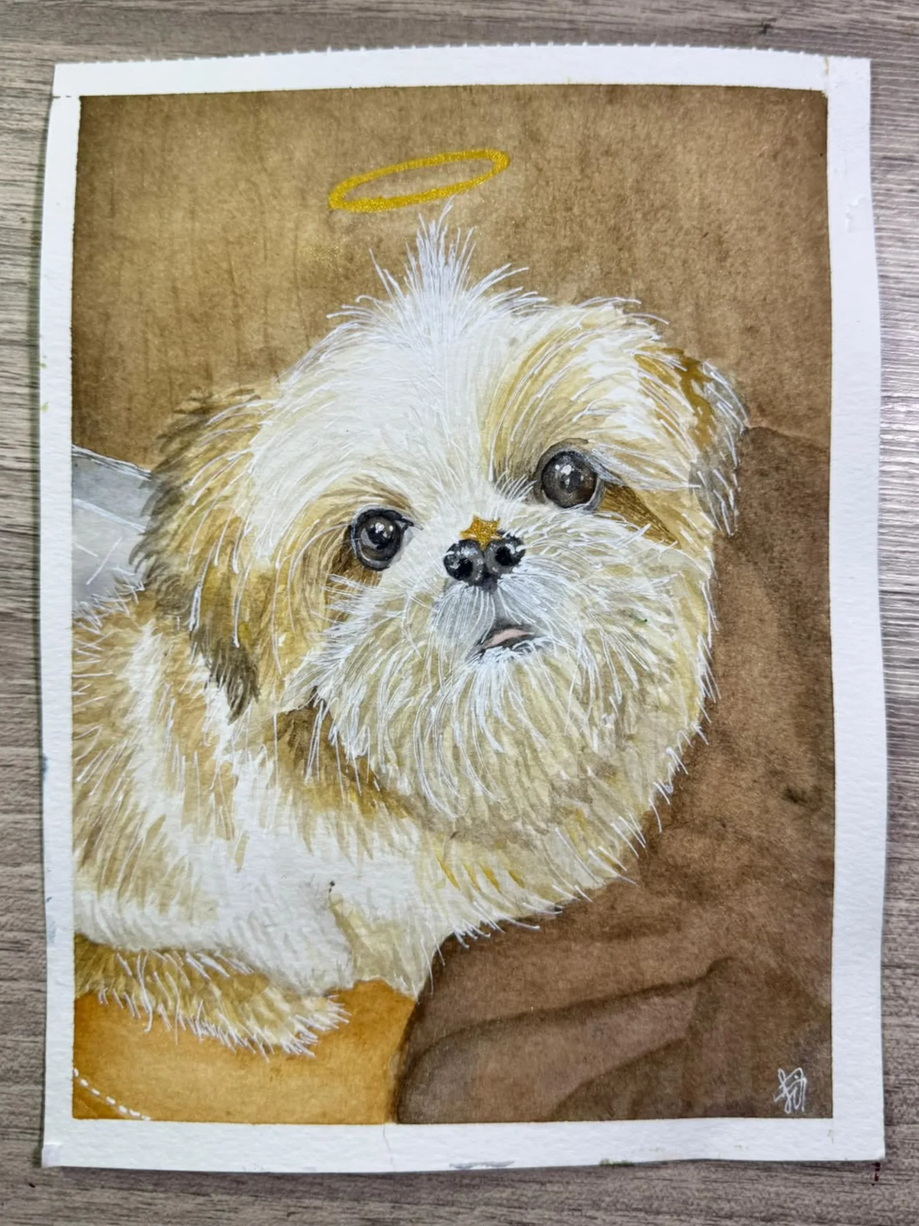
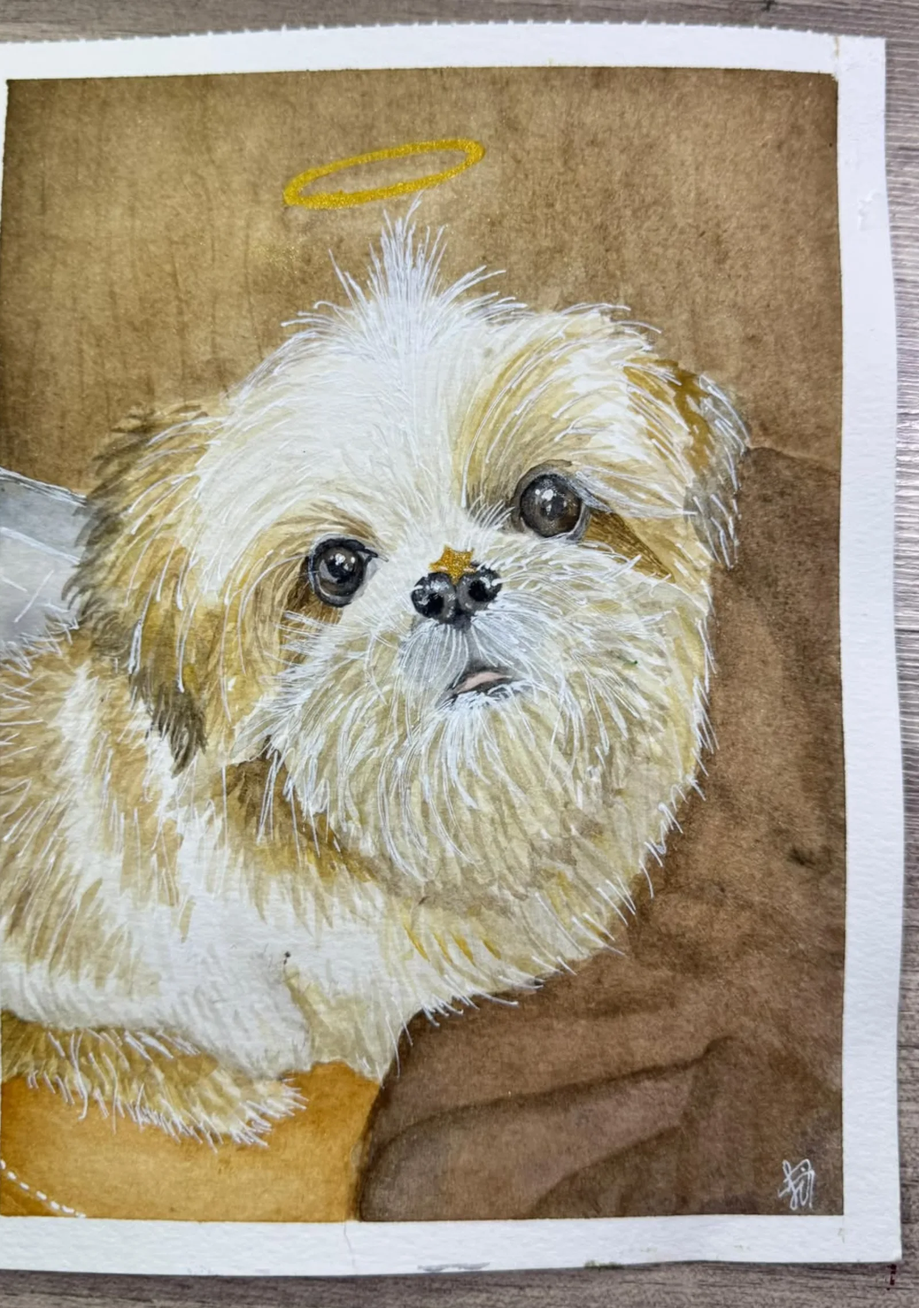
Tighten gallery photo framing and randomize homepage theme tiles
Crop each gallery photo closer to the artwork itself (removing table/palette background) instead of showing the full reference photo. Move the landscape bedroom piece to the end of the gallery as a featured wide tile so it isn't squeezed into a portrait card. Update the homepage's "O que pintamos" theme tiles to match the order form's real themes (add Casal, merge Santos/Devocionais into Santo/Devocional) and randomize which piece shows per theme on every page load.

diff --git a/src/app/page.tsx b/src/app/page.tsx
@@ -1,6 +1,7 @@
 import { LinkButton } from "@/components/Button";
 import ArtworkCard from "@/components/ArtworkCard";
 import Testimonials from "@/components/Testimonials";
+import ThemeShowcase from "@/components/ThemeShowcase";
 
 const STEPS = [
   {
@@ -21,10 +22,32 @@ const STEPS = [
 ];
 
 const THEMES = [
-  { key: "pet", label: "Pets", src: "/gallery/jade.webp" },
-  { key: "santos", label: "Santos", src: "/gallery/sao-jorge.webp" },
-  { key: "devocional", label: "Devocionais", src: "/gallery/nossa-senhora-oracao.webp" },
-  { key: "homenagem", label: "Homenagens", src: "/gallery/cachorro-anjo.webp" },
+  {
+    key: "casal",
+    label: "Casal",
+    options: ["/gallery/casal-florenca.webp", "/gallery/casal-beijo.webp", "/gallery/casal-quarto.webp"],
+  },
+  {
+    key: "pet",
+    label: "Pets",
+    options: ["/gallery/jade.webp", "/gallery/honey.webp", "/gallery/nina.webp", "/gallery/pomerania.webp"],
+  },
+  {
+    key: "santo",
+    label: "Santo / Devocional",
+    options: [
+      "/gallery/nossa-senhora-oracao.webp",
+      "/gallery/nossa-senhora-fatima.webp",
+      "/gallery/sao-jorge.webp",
+      "/gallery/sao-patricio.webp",
+      "/gallery/jesus.webp",
+    ],
+  },
+  {
+    key: "homenagem",
+    label: "Homenagens",
+    options: ["/gallery/cachorro-anjo.webp", "/gallery/cachorro-anjo-2.webp"],
+  },
 ];
 
 export default function Home() {
@@ -84,11 +107,7 @@ export default function Home() {
           Cada tema pede um olhar diferente — escolha o que mais combina com a sua
           encomenda.
         </p>
-        <div className="mt-12 grid gap-6 sm:grid-cols-2 lg:grid-cols-4">
-          {THEMES.map((theme) => (
-            <ArtworkCard key={theme.key} src={theme.src} alt={theme.label} label={theme.label} />
-          ))}
-        </div>
+        <ThemeShowcase themes={THEMES} />
       </section>
 
       <Testimonials />

diff --git a/src/app/galeria/page.tsx b/src/app/galeria/page.tsx
@@ -20,8 +20,8 @@ const PIECES = [
   { src: "/gallery/jesus.webp", label: "Sagrado" },
   { src: "/gallery/cachorro-anjo-2.webp", label: "Homenagem a um pet" },
   { src: "/gallery/pomerania.webp", label: "Pet" },
-  { src: "/gallery/casal-quarto.webp", label: "Casal" },
   { src: "/gallery/casal-florenca.webp", label: "Casal" },
+  { src: "/gallery/casal-quarto.webp", label: "Casal", wide: true },
 ];
 
 export default function GaleriaPage() {
@@ -35,7 +35,13 @@ export default function GaleriaPage() {
 
       <div className="mt-12 grid gap-6 sm:grid-cols-2 lg:grid-cols-3">
         {PIECES.map((piece) => (
-          <ArtworkCard key={piece.src} src={piece.src} alt={piece.label} />
+          <ArtworkCard
+            key={piece.src}
+            src={piece.src}
+            alt={piece.label}
+            className={piece.wide ? "sm:col-span-2 lg:col-span-3" : undefined}
+            aspectClassName={piece.wide ? "aspect-[16/9]" : undefined}
+          />
         ))}
       </div>
 

diff --git a/src/components/ThemeShowcase.tsx b/src/components/ThemeShowcase.tsx
@@ -1,0 +1,28 @@
+"use client";
+
+import { useEffect, useState } from "react";
+import ArtworkCard from "@/components/ArtworkCard";
+
+export type ThemeGroup = {
+  key: string;
+  label: string;
+  options: string[];
+};
+
+export default function ThemeShowcase({ themes }: { themes: ThemeGroup[] }) {
+  const [srcs, setSrcs] = useState(() => themes.map((theme) => theme.options[0]));
+
+  useEffect(() => {
+    // eslint-disable-next-line react-hooks/set-state-in-effect -- one-time client-only randomization to avoid an SSR/CSR mismatch
+    setSrcs(themes.map((theme) => theme.options[Math.floor(Math.random() * theme.options.length)]));
+    // eslint-disable-next-line react-hooks/exhaustive-deps
+  }, []);
+
+  return (
+    <div className="mt-12 grid gap-6 sm:grid-cols-2 lg:grid-cols-4">
+      {themes.map((theme, i) => (
+        <ArtworkCard key={theme.key} src={srcs[i]} alt={theme.label} label={theme.label} />
+      ))}
+    </div>
+  );
+}

diff --git a/src/components/ArtworkCard.tsx b/src/components/ArtworkCard.tsx
@@ -5,16 +5,18 @@ export default function ArtworkCard({
   alt,
   label,
   className = "",
+  aspectClassName = "aspect-[3/4]",
   priority = false,
 }: {
   src: string;
   alt: string;
   label?: string;
   className?: string;
+  aspectClassName?: string;
   priority?: boolean;
 }) {
   return (
-    <div className={`relative aspect-[3/4] w-full overflow-hidden bg-surface ${className}`}>
+    <div className={`relative ${aspectClassName} w-full overflow-hidden bg-surface ${className}`}>
       <Image
         src={src}
         alt={alt}

diff --git a/src/components/PortfolioCarousel.tsx b/src/components/PortfolioCarousel.tsx
@@ -16,8 +16,8 @@ const PIECES = [
   { src: "/gallery/jesus.webp", label: "Sagrado" },
   { src: "/gallery/cachorro-anjo-2.webp", label: "Homenagem a um pet" },
   { src: "/gallery/pomerania.webp", label: "Pet" },
-  { src: "/gallery/casal-quarto.webp", label: "Casal" },
   { src: "/gallery/casal-florenca.webp", label: "Casal" },
+  { src: "/gallery/casal-quarto.webp", label: "Casal" },
 ];
 
 const INTERVAL_MS = 2500;
